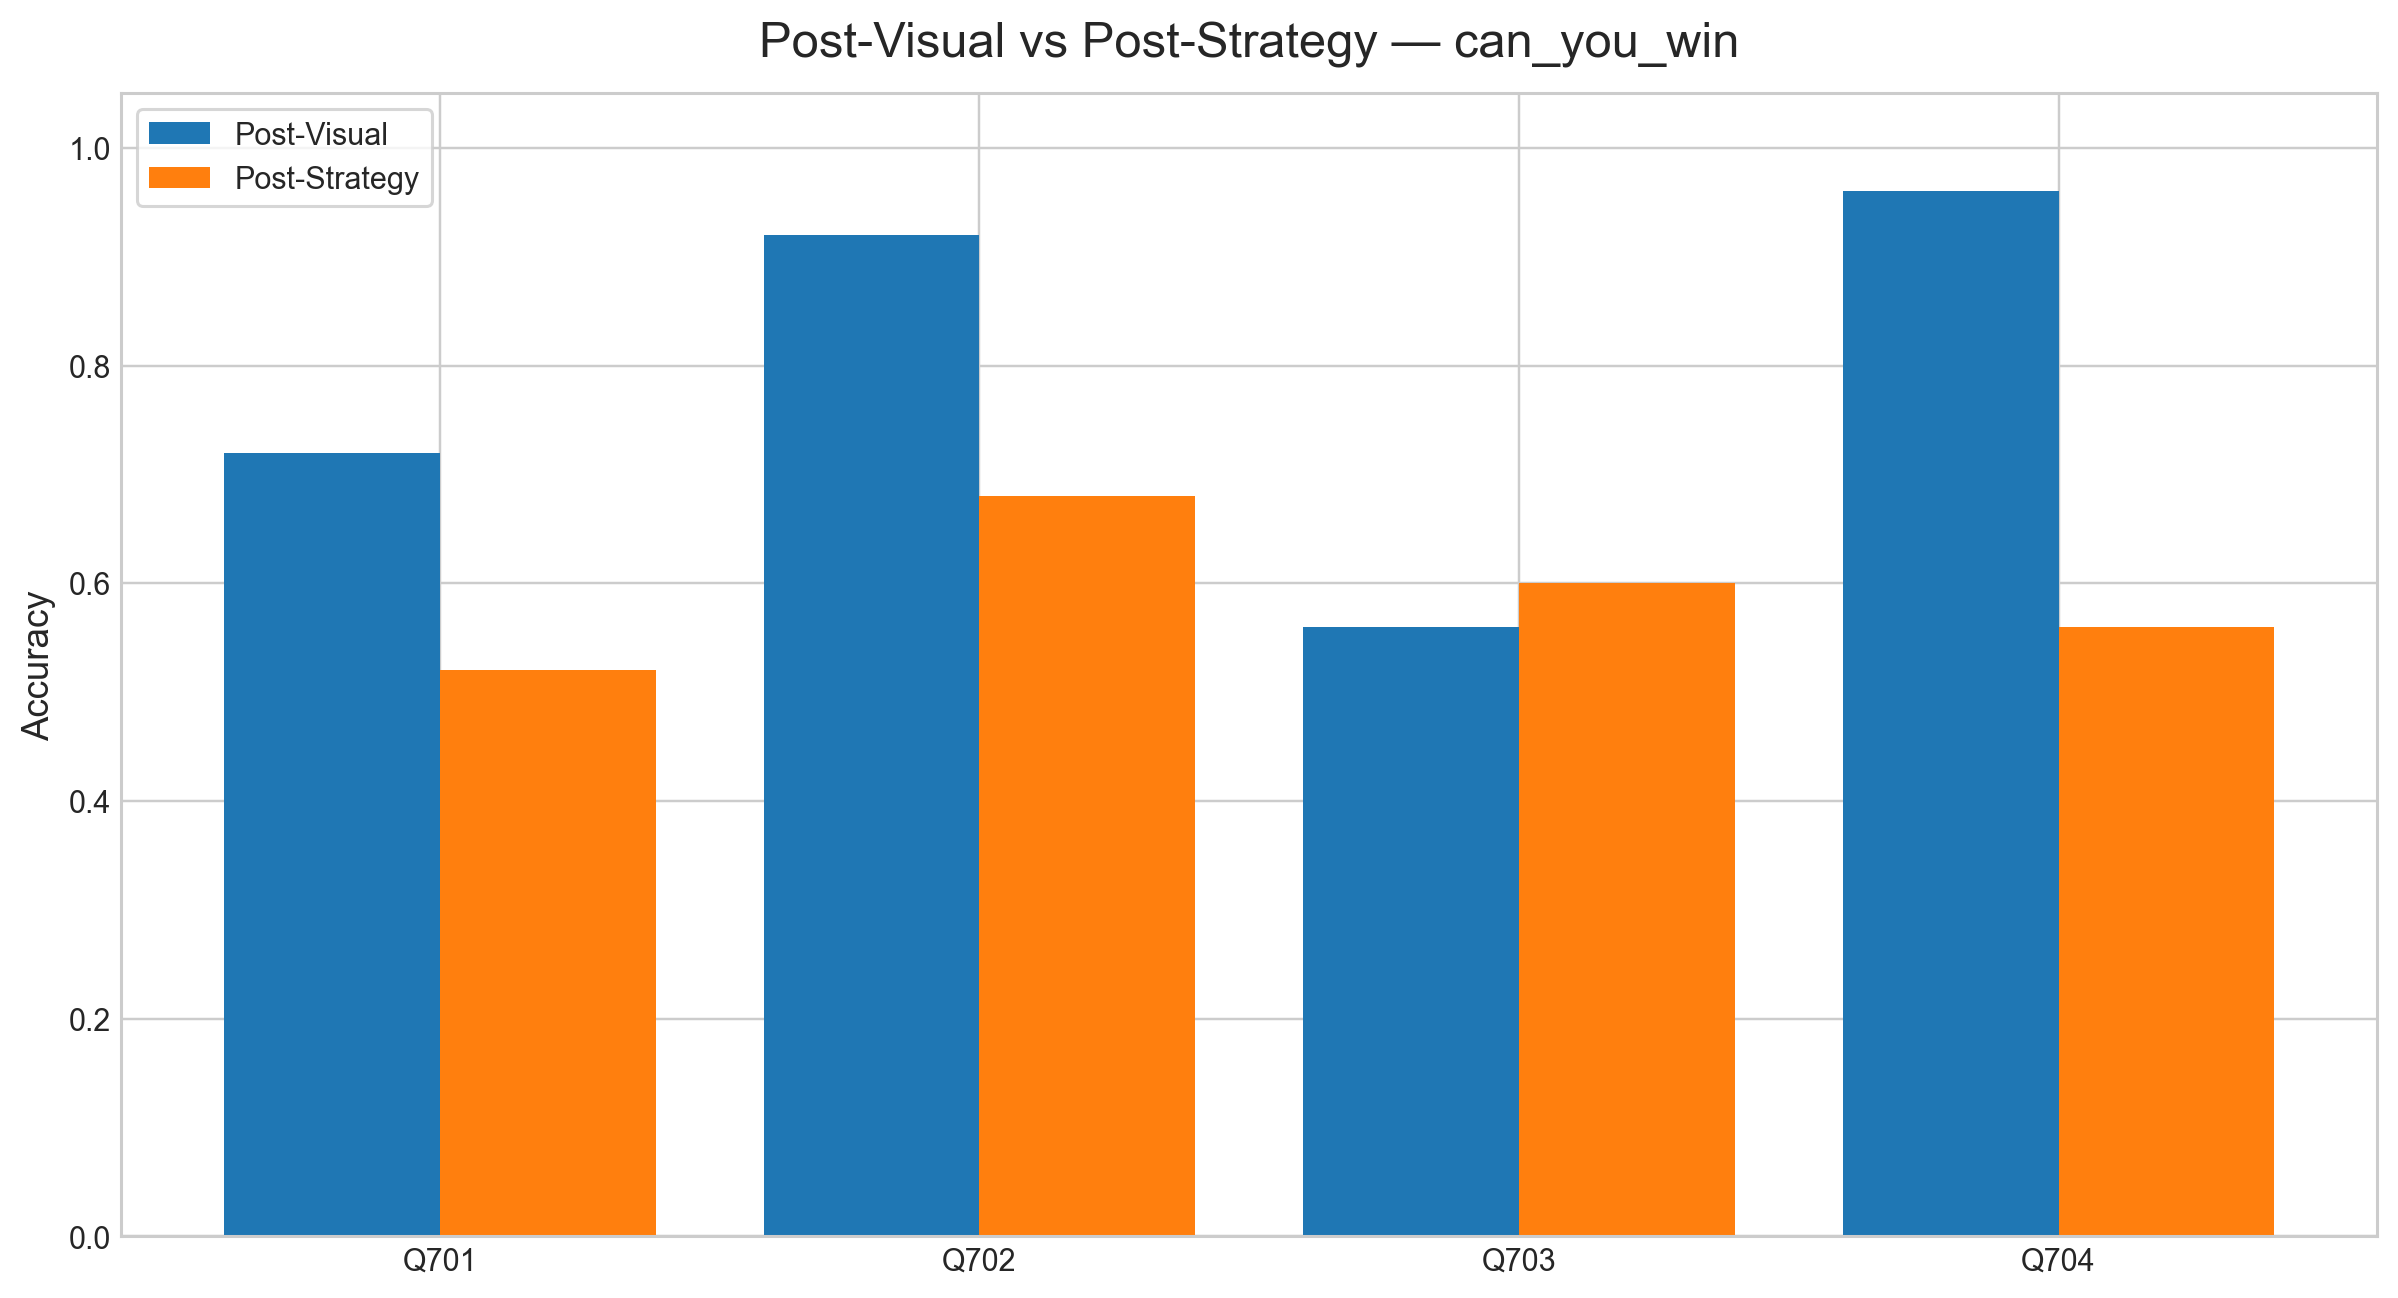
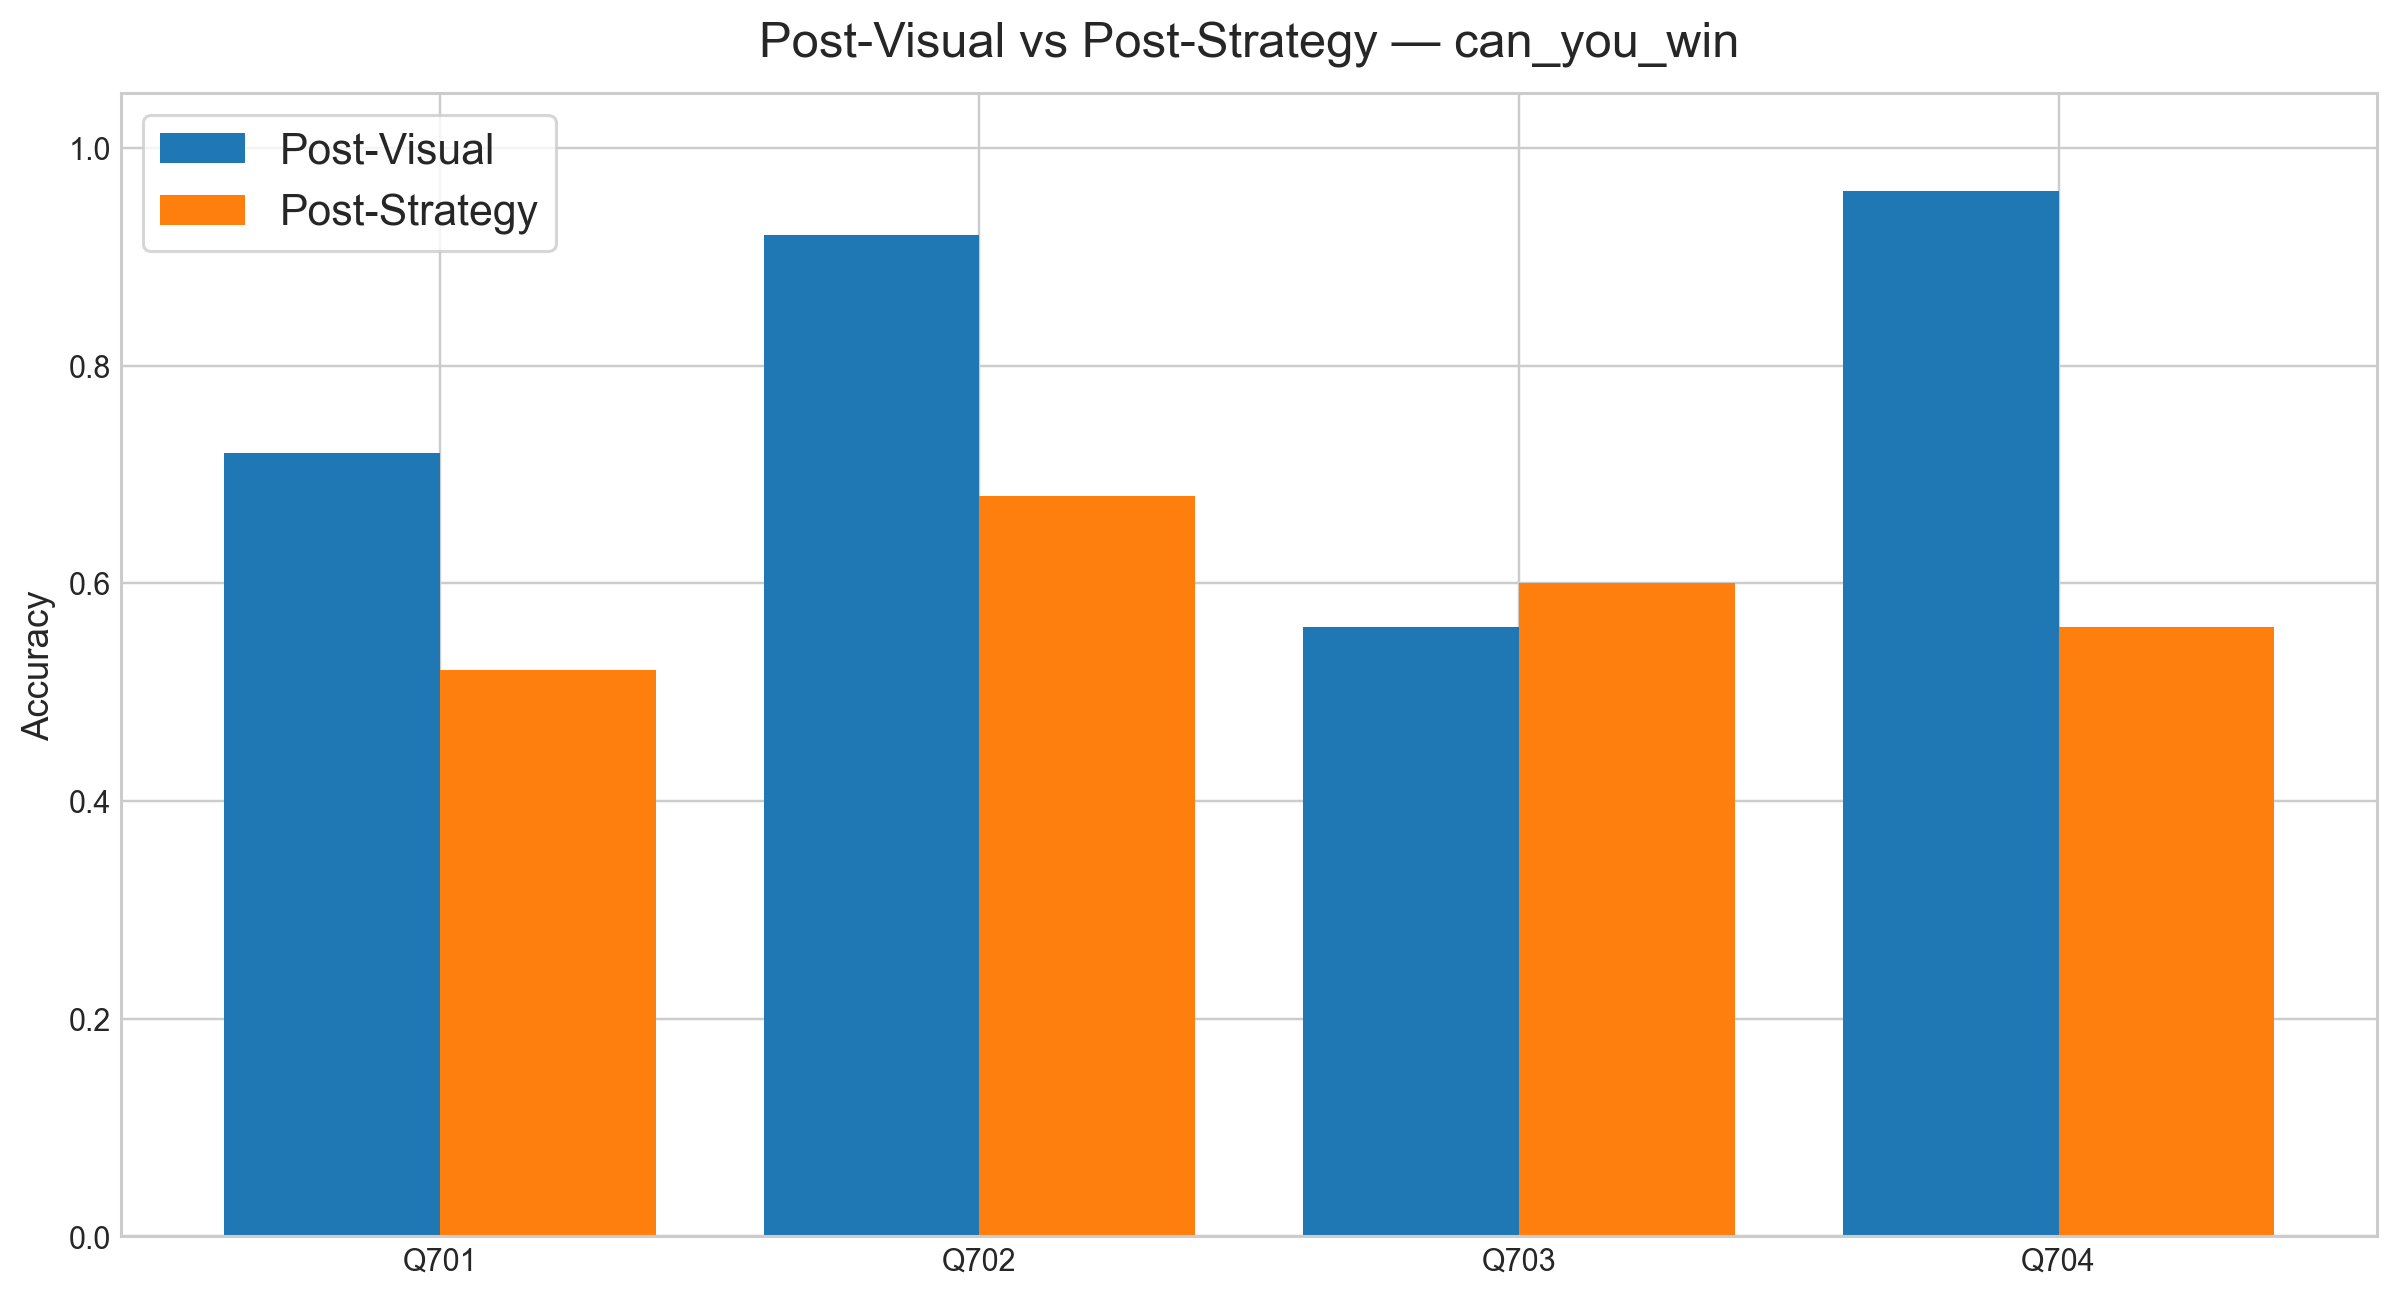
bigger imgs

Changed region(s): [[0.0617, 0.0616, 0.2469, 0.1849]]

diff --git a/paper/graphs.py b/paper/graphs.py
@@ -23,7 +23,7 @@ def setup_style() -> None:
             "axes.labelsize": 12,
             "xtick.labelsize": 10,
             "ytick.labelsize": 10,
-            "legend.fontsize": 10,
+            "legend.fontsize": 14,
             "axes.titlepad": 12,
             "figure.autolayout": False,
         }
